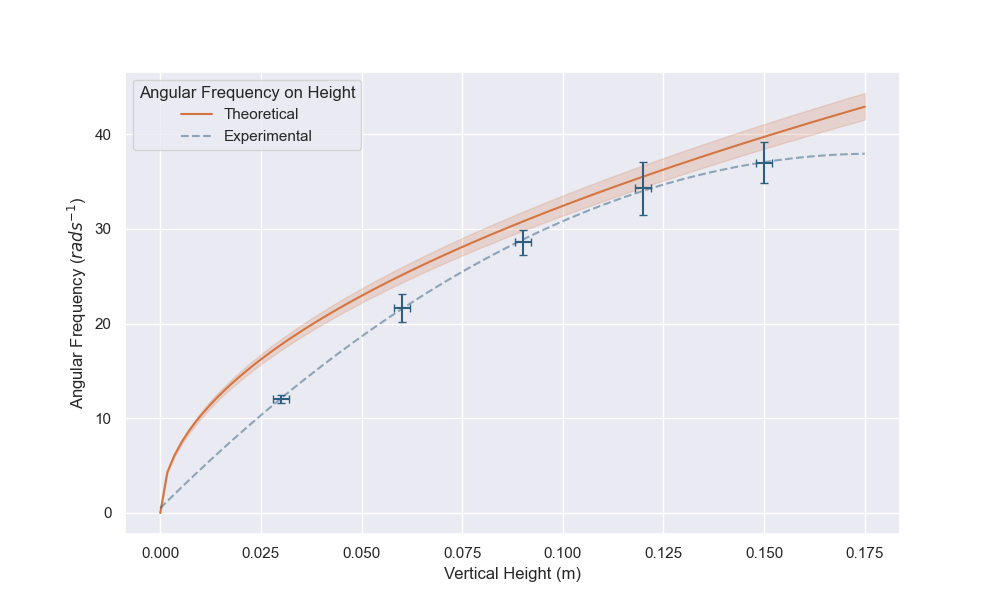
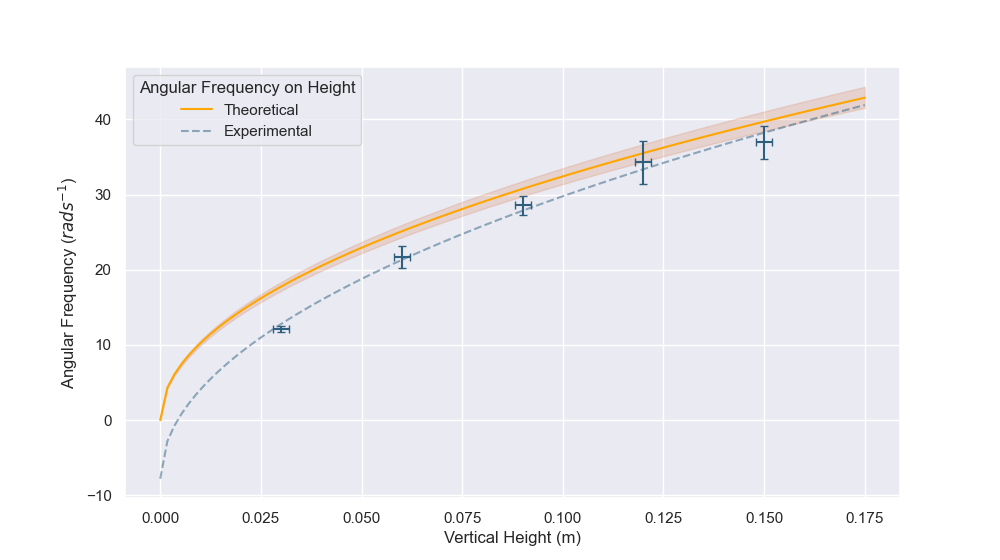
Update Plotting script to handle non-polynomial (square-fit)

diff --git a/Python/Scripts/Plotting/ErrorBand.py b/Python/Scripts/Plotting/ErrorBand.py
@@ -1,6 +1,7 @@
 import matplotlib.pyplot as plt
 import numpy as np
 from numpy.polynomial import Polynomial
+from scipy.optimize import curve_fit
 import seaborn as sns
 
 ORANGE = '#D57541'
@@ -22,6 +23,9 @@ def omega(h:float | np.ndarray, r:float, R:float) -> float | np.ndarray:
 def omega_sqr(h:float | np.ndarray, r:float, R:float) -> float | np.ndarray:
     return (4 * g * h) / (3 * R ** 2 + r ** 2)
 
+def sqrt(x, a, b):
+    return a + b * np.sqrt(x)
+
 
 lower_bounds = omega(x, r + r_err, R + R_err)
 theoretical = omega(x, r, R)
@@ -33,11 +37,13 @@ y, err_y         = [12.08, 21.67, 28.56, 34.27, 36.96],        [0.42, 1.49, 1.30
 y_sqr, sqr_err_y = [146.00, 469.42, 815.67, 1174.56, 1366.03], [5.62, 64.75, 74.15, 192.20, 160.71]
 
 # Least-Squares Fits for Experimental Data
-series_fit_w = Polynomial.fit(x_data, y, 2)
-best_fit_y = series_fit_w(x)
+popt, _ = curve_fit(sqrt, x_data, y)
+print("Coefficients for Angular Frequency Fit (a, b):", popt)
+best_fit_y = sqrt(x, *popt)
 
 
 series_fit_w_sqr = Polynomial.fit(x_data, y_sqr, 1)
+print("Coefficients for Squared Angular Frequency Fit (a, b):", series_fit_w_sqr.coef)
 best_fit_y_sqr = series_fit_w_sqr(x)
 
 
